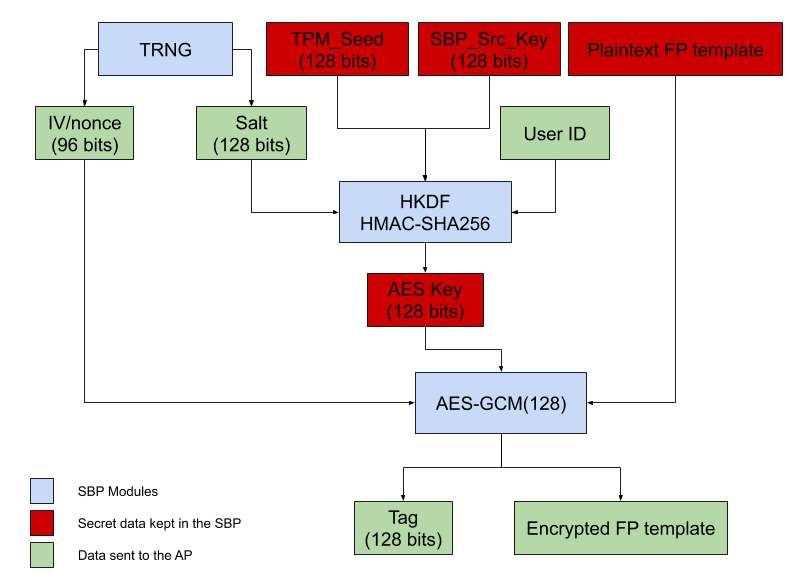
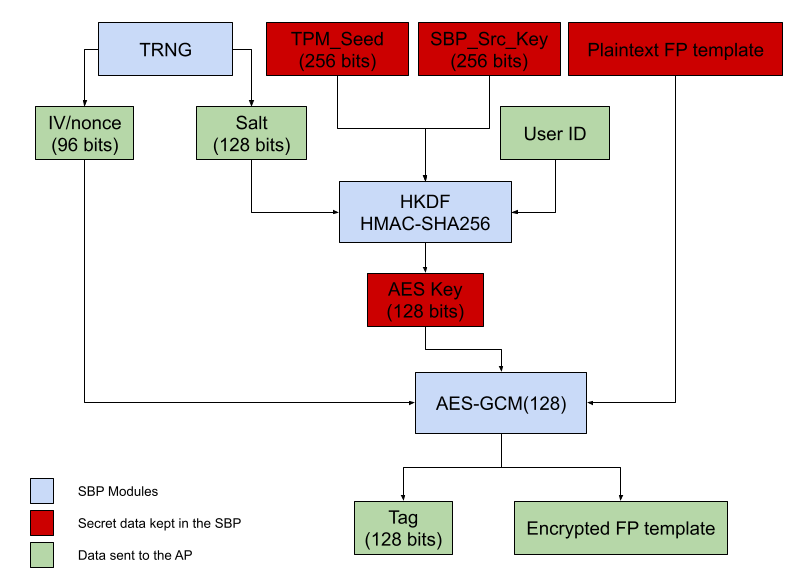
docs: Fix fingerprint encryption/decryption flowchart
TPM_Seed and SBP_Src_Key are 256-bit, not 128-bit.

BUG=b:328515138
TEST=view in gitiles

Code-Coverage: Zoss <zoss-cl-coverage@prod.google.com>
Commit-Queue: Tom Hughes <tomhughes@chromium.org>

Changed region(s): [[0.5583, 0.0925, 0.6203, 0.1233], [0.3722, 0.0925, 0.4342, 0.1233]]

diff --git a/docs/fingerprint/fingerprint-authentication-design-doc.md b/docs/fingerprint/fingerprint-authentication-design-doc.md
@@ -191,7 +191,7 @@ tampered with by an attacker controlling the AP.
 
 ##### SBP secret generation
 
-The SBP generates a new 128-bit random number `SBP_Src_Key` every time the user
+The SBP generates a new 256-bit random number `SBP_Src_Key` every time the user
 goes through recovery or powerwashes the device. The [clobber-state] script
 sends a command to the SBP to make it immediately regenerate a new `SBP_Src_Key`
 immediately after requesting a TPM clear.
